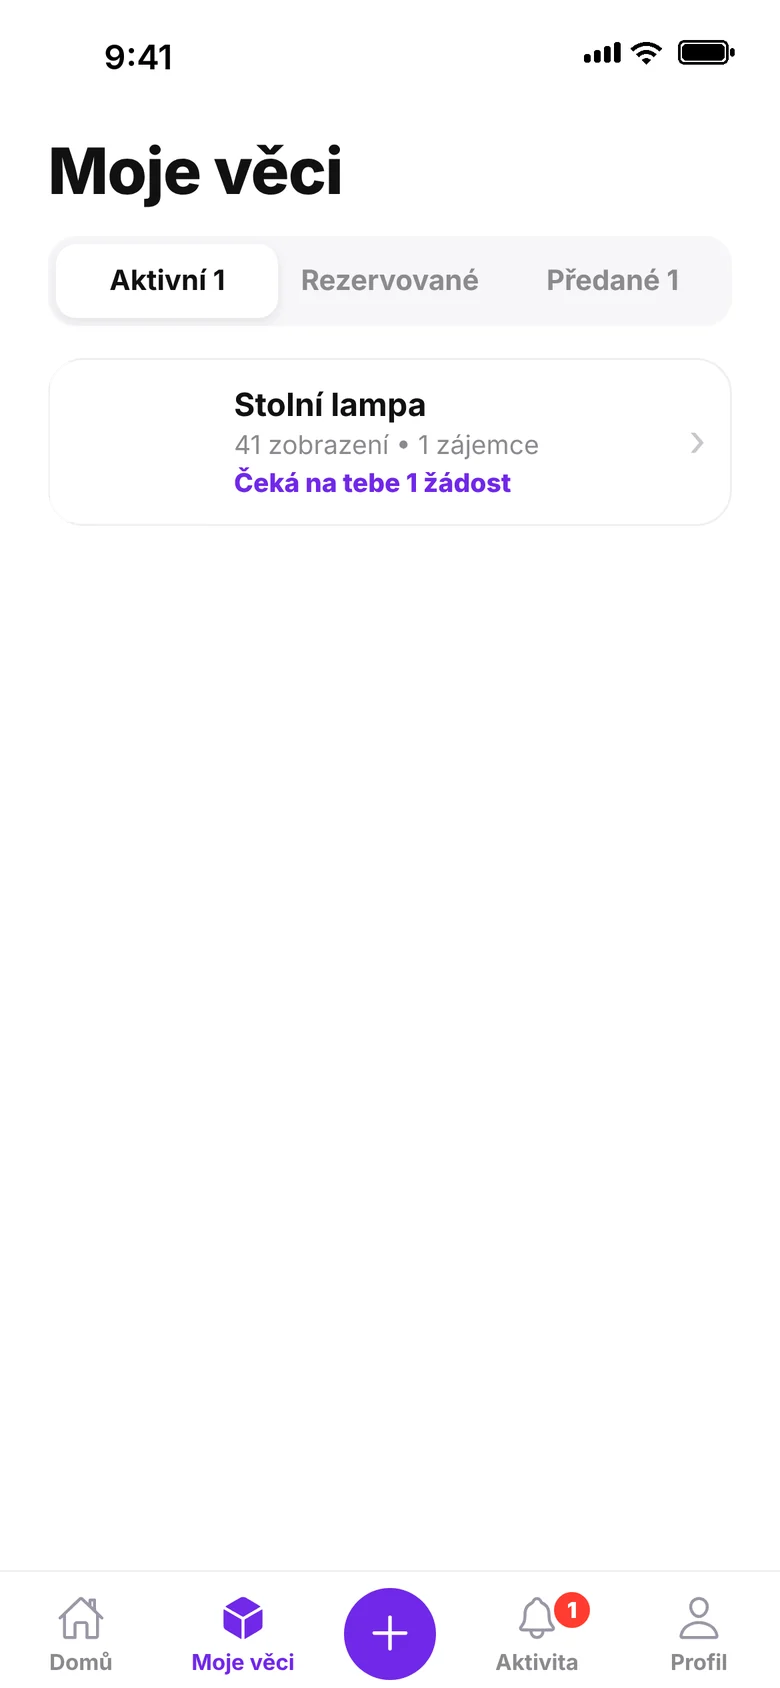
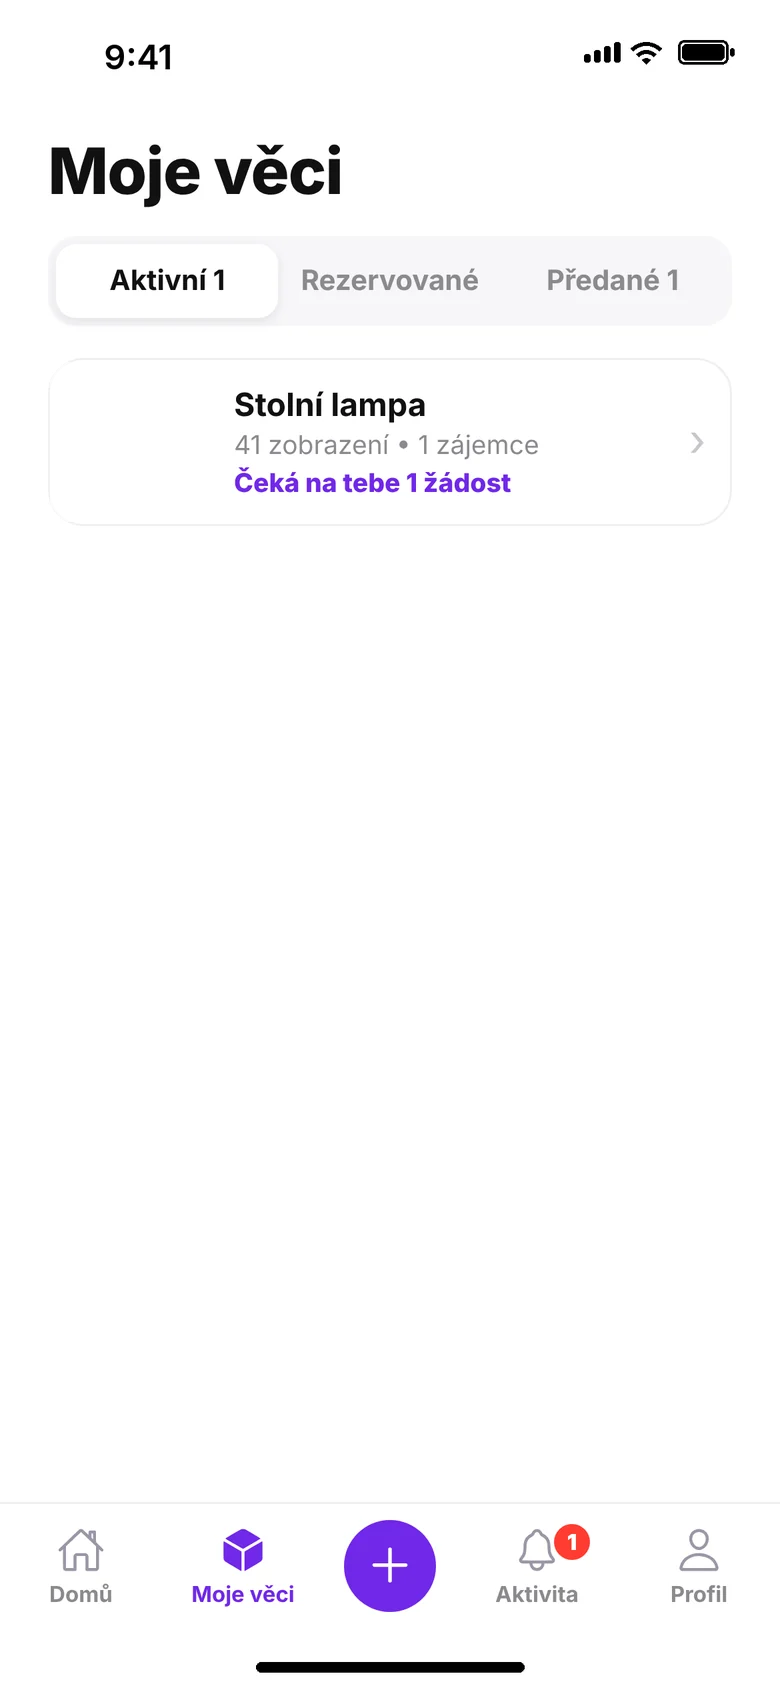
Web: mockupy s home indikátorem (vyšší spodní lišta), oprava natažených telefonů
Claude-Session: https://claude.ai/code/session_014YzKR5tPSZnWPr8aK1bVGn

Changed region(s): [[0.2462, 0.8934, 0.7692, 1.0], [0.0615, 0.8934, 0.1538, 1.0], [0.8615, 0.8934, 0.9231, 1.0]]

diff --git a/web/index.html b/web/index.html
@@ -47,7 +47,7 @@
         <div class="phones" aria-hidden="true">
           <div class="blob" style="width:360px;height:360px;background:#b99bff;left:10%;top:120px"></div>
           <div class="blob" style="width:260px;height:260px;background:#9be8c2;right:0;top:20px"></div>
-          <div class="phone p1"><div class="screen"><img class="ph" src="https://images.unsplash.com/photo-1555041469-a586c61ea9bc?w=500&q=70&auto=format&fit=crop" alt="" style="left:6.41%;top:31.64%;width:41.79%;height:17.59%" /><img class="ph" src="https://images.unsplash.com/photo-1559454403-b8fb88521f11?w=500&q=70&auto=format&fit=crop" alt="" style="left:51.79%;top:31.64%;width:41.79%;height:17.59%" /><img class="ph" src="https://images.unsplash.com/photo-1505740420928-5e560c06d30e?w=500&q=70&auto=format&fit=crop" alt="" style="left:6.41%;top:57.88%;width:41.79%;height:17.59%" /><img class="ph" src="https://images.unsplash.com/photo-1512820790803-83ca734da794?w=500&q=70&auto=format&fit=crop" alt="" style="left:51.79%;top:57.88%;width:41.79%;height:17.59%" /><img class="ph" src="https://images.unsplash.com/photo-1614594975525-e45190c55d0b?w=500&q=70&auto=format&fit=crop" alt="" style="left:6.41%;top:84.12%;width:41.79%;height:8.89%" /><img class="ph" src="https://images.unsplash.com/photo-1551028719-00167b16eac5?w=500&q=70&auto=format&fit=crop" alt="" style="left:51.79%;top:84.12%;width:41.79%;height:8.89%" /><img class="shot" src="/img/screen-home.webp" alt="" width="390" height="844" /></div></div>
+          <div class="phone p1"><div class="screen"><img class="ph" src="https://images.unsplash.com/photo-1555041469-a586c61ea9bc?w=500&q=70&auto=format&fit=crop" alt="" style="left:6.41%;top:31.64%;width:41.79%;height:17.59%" /><img class="ph" src="https://images.unsplash.com/photo-1559454403-b8fb88521f11?w=500&q=70&auto=format&fit=crop" alt="" style="left:51.79%;top:31.64%;width:41.79%;height:17.59%" /><img class="ph" src="https://images.unsplash.com/photo-1505740420928-5e560c06d30e?w=500&q=70&auto=format&fit=crop" alt="" style="left:6.41%;top:57.88%;width:41.79%;height:17.59%" /><img class="ph" src="https://images.unsplash.com/photo-1512820790803-83ca734da794?w=500&q=70&auto=format&fit=crop" alt="" style="left:51.79%;top:57.88%;width:41.79%;height:17.59%" /><img class="ph" src="https://images.unsplash.com/photo-1614594975525-e45190c55d0b?w=500&q=70&auto=format&fit=crop" alt="" style="left:6.41%;top:84.12%;width:41.79%;height:4.86%" /><img class="ph" src="https://images.unsplash.com/photo-1551028719-00167b16eac5?w=500&q=70&auto=format&fit=crop" alt="" style="left:51.79%;top:84.12%;width:41.79%;height:4.86%" /><img class="shot" src="/img/screen-home.webp" alt="" width="390" height="844" /></div></div>
           <div class="phone p2"><div class="screen"><img class="ph" src="https://images.unsplash.com/photo-1555041469-a586c61ea9bc?w=500&q=70&auto=format&fit=crop" alt="" style="left:0.00%;top:6.40%;width:100.00%;height:40.28%" loading="lazy" /><img class="shot" src="/img/screen-detail.webp" alt="" width="390" height="844" loading="lazy" /></div></div>
         </div>
       </div>
@@ -60,7 +60,7 @@
         <p class="muted" style="max-width:560px;margin:0 auto">Darovat věc je rychlejší než ji nést do popelnice. A někomu kousek od tebe udělá radost.</p>
         <div class="steps">
           <div class="step">
-            <div class="phone"><div class="screen"><img class="ph" src="https://images.unsplash.com/photo-1555041469-a586c61ea9bc?w=500&q=70&auto=format&fit=crop" alt="" style="left:6.41%;top:31.64%;width:41.79%;height:17.59%" loading="lazy" /><img class="ph" src="https://images.unsplash.com/photo-1559454403-b8fb88521f11?w=500&q=70&auto=format&fit=crop" alt="" style="left:51.79%;top:31.64%;width:41.79%;height:17.59%" loading="lazy" /><img class="ph" src="https://images.unsplash.com/photo-1505740420928-5e560c06d30e?w=500&q=70&auto=format&fit=crop" alt="" style="left:6.41%;top:57.88%;width:41.79%;height:17.59%" loading="lazy" /><img class="ph" src="https://images.unsplash.com/photo-1512820790803-83ca734da794?w=500&q=70&auto=format&fit=crop" alt="" style="left:51.79%;top:57.88%;width:41.79%;height:17.59%" loading="lazy" /><img class="ph" src="https://images.unsplash.com/photo-1614594975525-e45190c55d0b?w=500&q=70&auto=format&fit=crop" alt="" style="left:6.41%;top:84.12%;width:41.79%;height:8.89%" loading="lazy" /><img class="ph" src="https://images.unsplash.com/photo-1551028719-00167b16eac5?w=500&q=70&auto=format&fit=crop" alt="" style="left:51.79%;top:84.12%;width:41.79%;height:8.89%" loading="lazy" /><img class="shot" src="/img/screen-home.webp" alt="Seznam věcí zdarma v okolí v aplikaci givo" width="390" height="844" loading="lazy" /></div></div>
+            <div class="phone"><div class="screen"><img class="ph" src="https://images.unsplash.com/photo-1555041469-a586c61ea9bc?w=500&q=70&auto=format&fit=crop" alt="" style="left:6.41%;top:31.64%;width:41.79%;height:17.59%" loading="lazy" /><img class="ph" src="https://images.unsplash.com/photo-1559454403-b8fb88521f11?w=500&q=70&auto=format&fit=crop" alt="" style="left:51.79%;top:31.64%;width:41.79%;height:17.59%" loading="lazy" /><img class="ph" src="https://images.unsplash.com/photo-1505740420928-5e560c06d30e?w=500&q=70&auto=format&fit=crop" alt="" style="left:6.41%;top:57.88%;width:41.79%;height:17.59%" loading="lazy" /><img class="ph" src="https://images.unsplash.com/photo-1512820790803-83ca734da794?w=500&q=70&auto=format&fit=crop" alt="" style="left:51.79%;top:57.88%;width:41.79%;height:17.59%" loading="lazy" /><img class="ph" src="https://images.unsplash.com/photo-1614594975525-e45190c55d0b?w=500&q=70&auto=format&fit=crop" alt="" style="left:6.41%;top:84.12%;width:41.79%;height:4.86%" loading="lazy" /><img class="ph" src="https://images.unsplash.com/photo-1551028719-00167b16eac5?w=500&q=70&auto=format&fit=crop" alt="" style="left:51.79%;top:84.12%;width:41.79%;height:4.86%" loading="lazy" /><img class="shot" src="/img/screen-home.webp" alt="Seznam věcí zdarma v okolí v aplikaci givo" width="390" height="844" loading="lazy" /></div></div>
             <span class="num">1</span>
             <h3>Vyfoť a přidej</h3>
             <p class="muted">Fotka, název a jak si to soused vyzvedne. Sousedé v okolí to hned uvidí.</p>

diff --git a/web/style.css b/web/style.css
@@ -99,7 +99,7 @@ section { padding: 88px 0; }
 .step .phone { width: 240px; margin: 0 auto 26px; }
 .num { display: inline-flex; width: 32px; height: 32px; border-radius: 16px; background: var(--b); color: #fff; font-weight: 800; align-items: center; justify-content: center; margin-bottom: 10px; }
 .split { display: grid; grid-template-columns: 1fr 1fr; gap: 56px; align-items: center; }
-.split .phones2 { display: flex; gap: 22px; justify-content: center; }
+.split .phones2 { display: flex; gap: 22px; justify-content: center; align-items: flex-start; }
 .split .phones2 .phone { width: 250px; }
 .split .phones2 .phone:nth-child(2) { margin-top: 60px; }
 .list { list-style: none; padding: 0; margin: 22px 0 0; }
